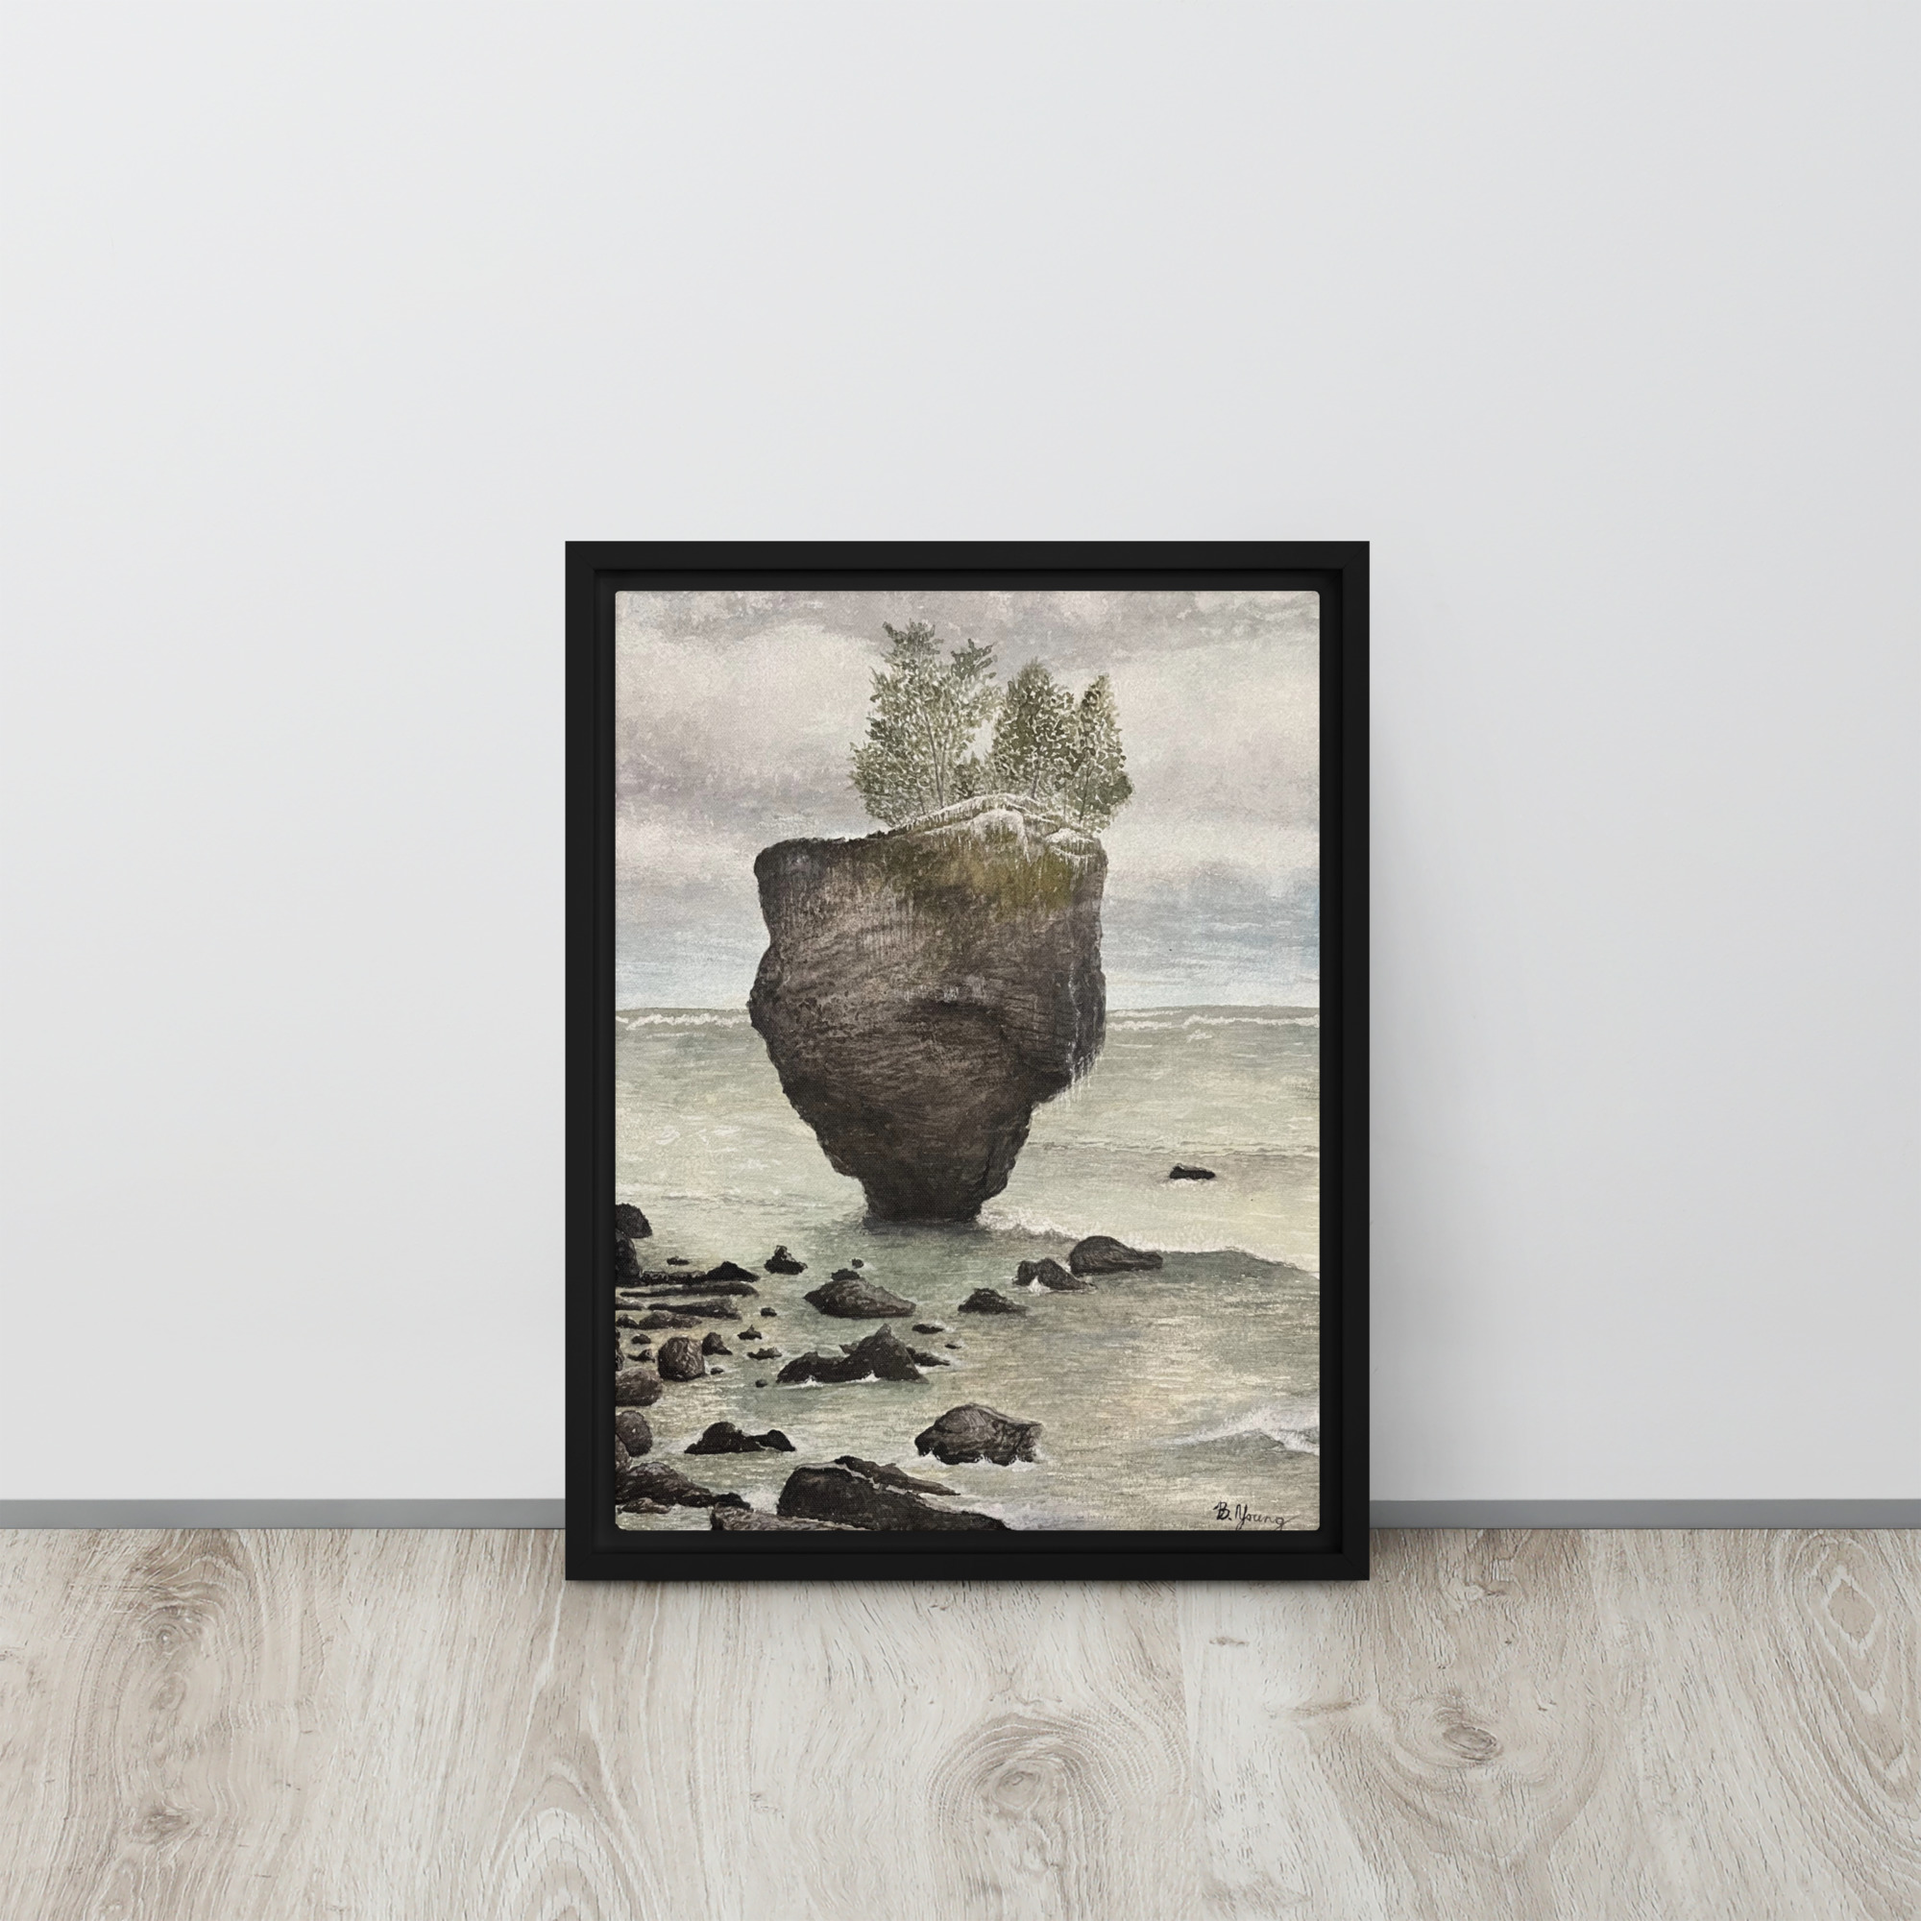
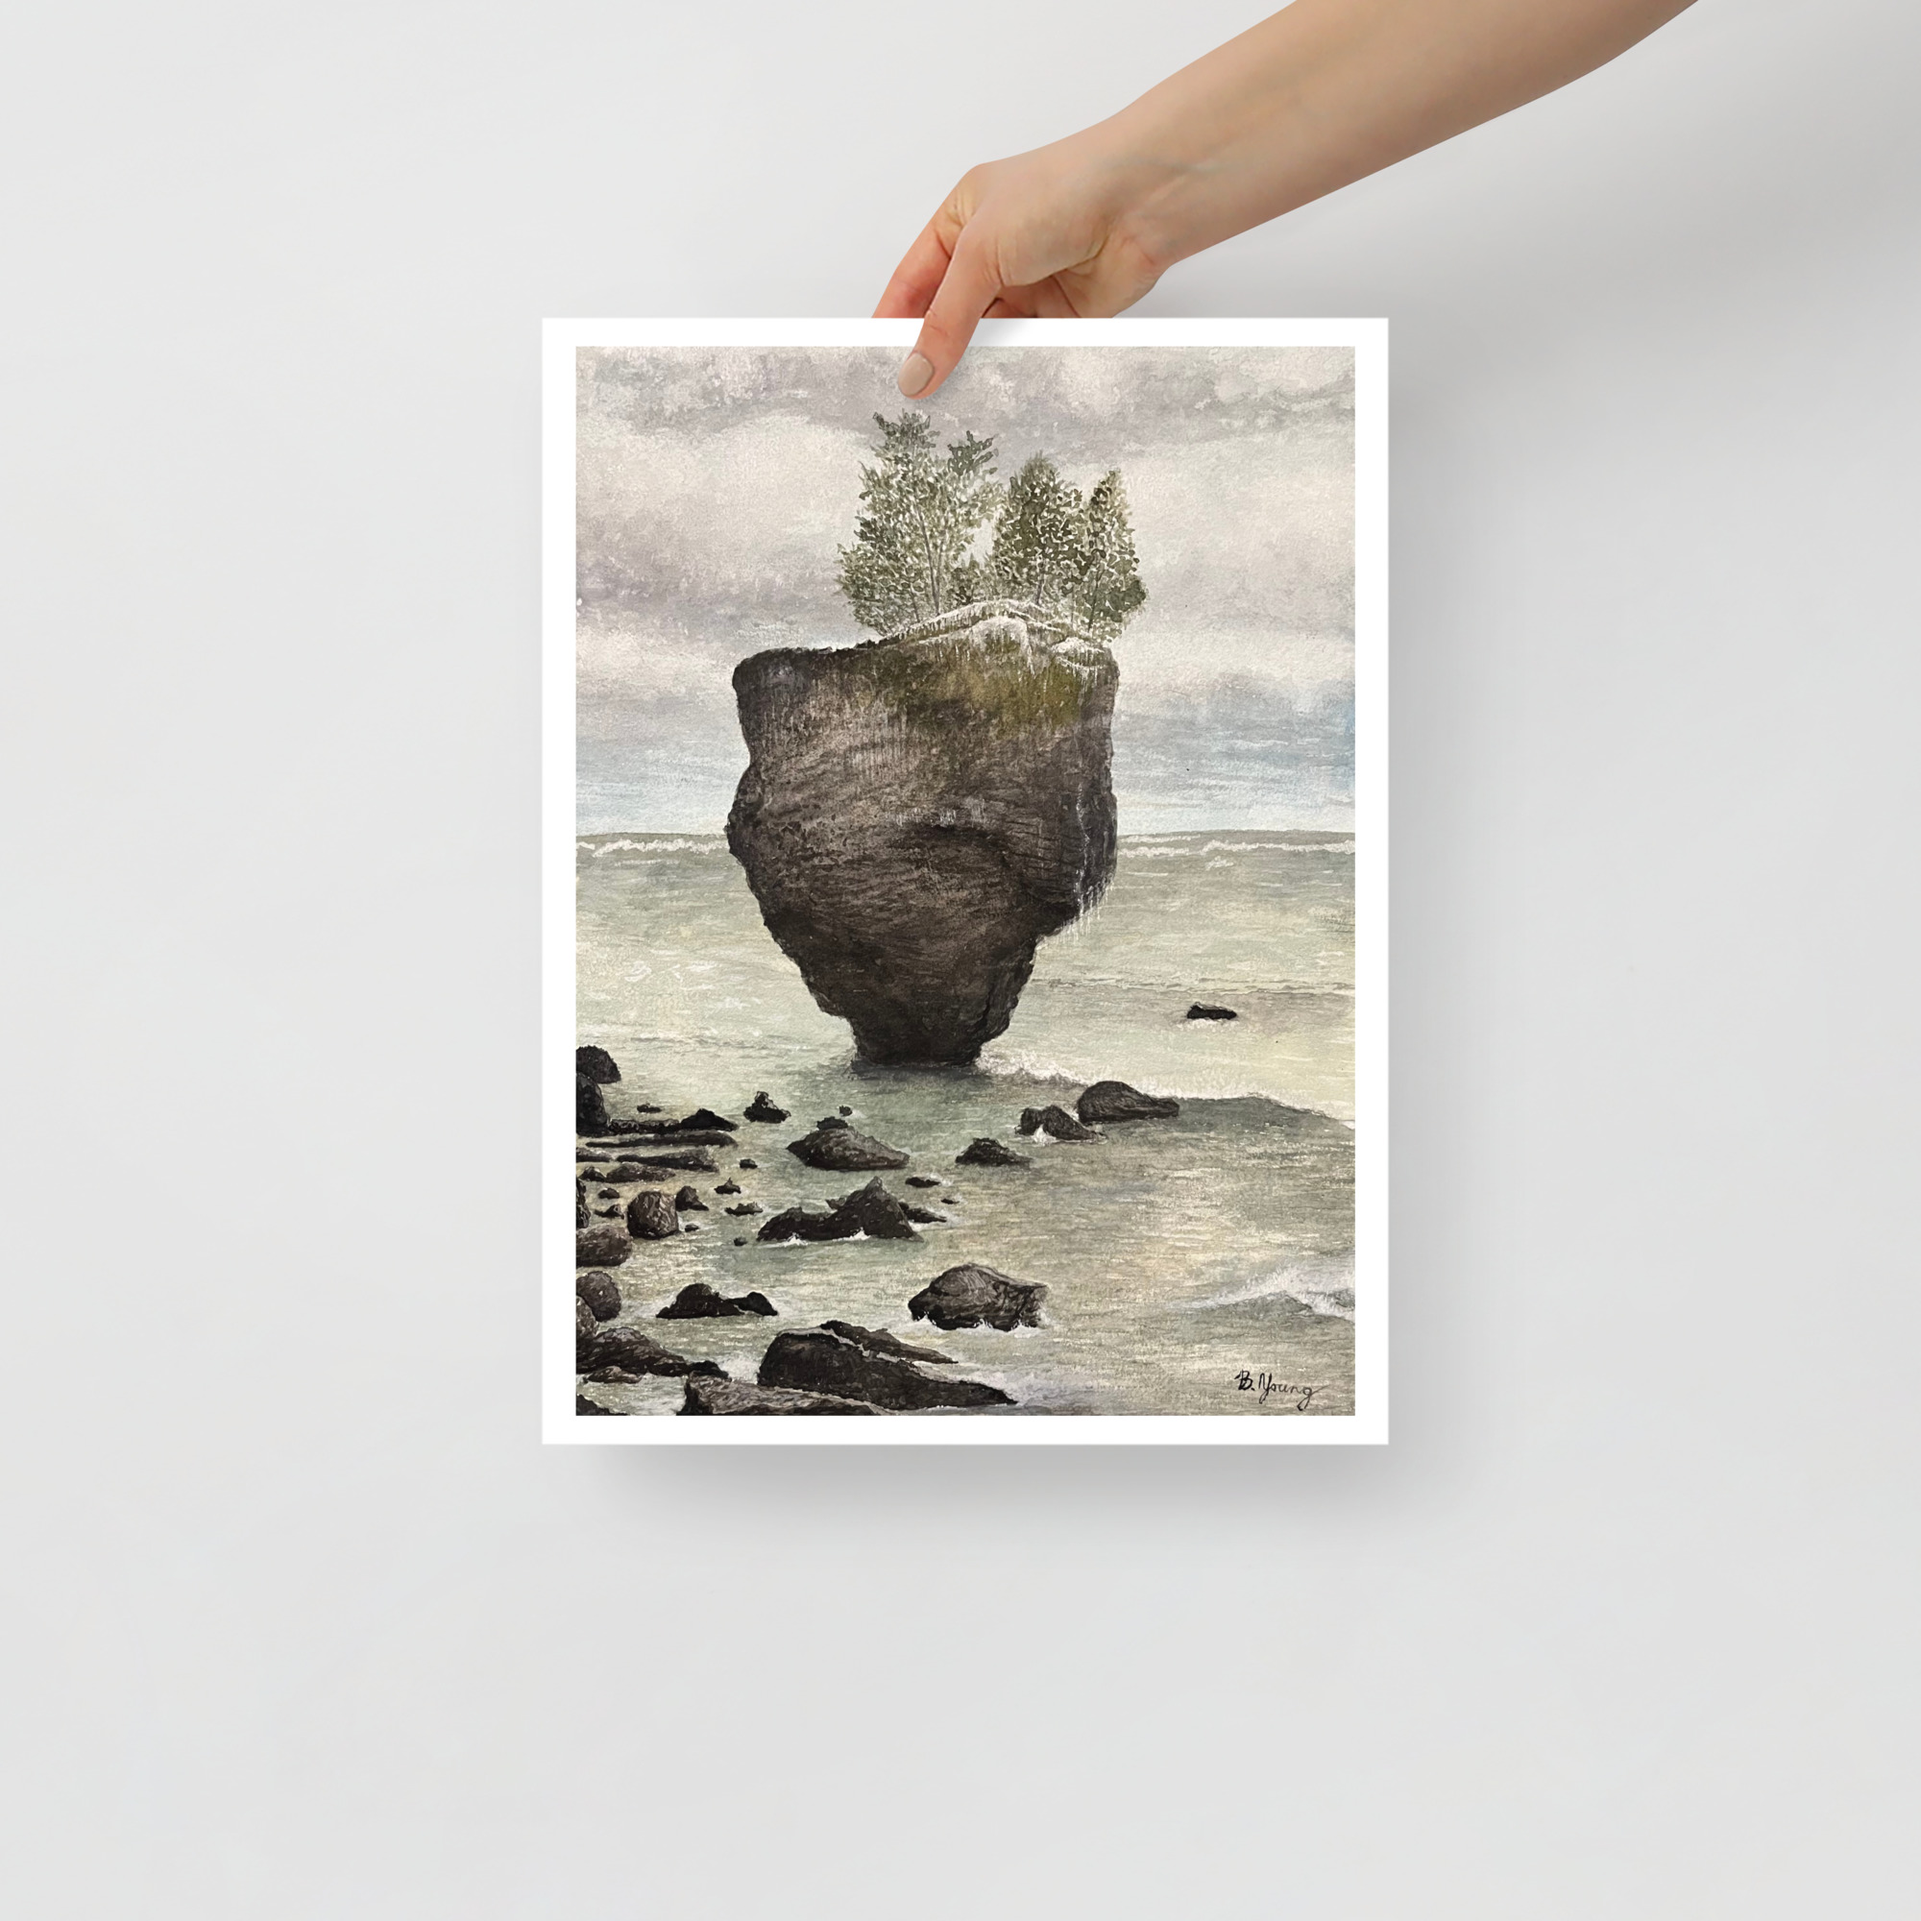
Changing print directly from Etsy for Erie Rock

diff --git a/content/artwork/erie-rock/index.md b/content/artwork/erie-rock/index.md
@@ -16,11 +16,9 @@ tags: [rocks, lake erie, cleveland ohio, great lakes, beach, water waves, landsc
 featured: true
 popularity: 2
 original: /shop/#!/Erie-Rock-Watercolor-Painting-Original/p/645990284/category=0
-prints: https://artistbenyoung.etsy.com/listing/1682533283/lake-erie-rock-cleveland-ohio-landscape
-digital: https://www.patreon.com/ArtistBenYoung/shop/erie-rock-digital-download-139714
+prints: /shop/#!/Erie-Rock-Print/p/646847599/category=0
 originalprice: $399
-printsprice: $29+
-digitalprice: $5
+printsprice: $29
 status: sold
 aliases: [/erie-rock]
 ---
